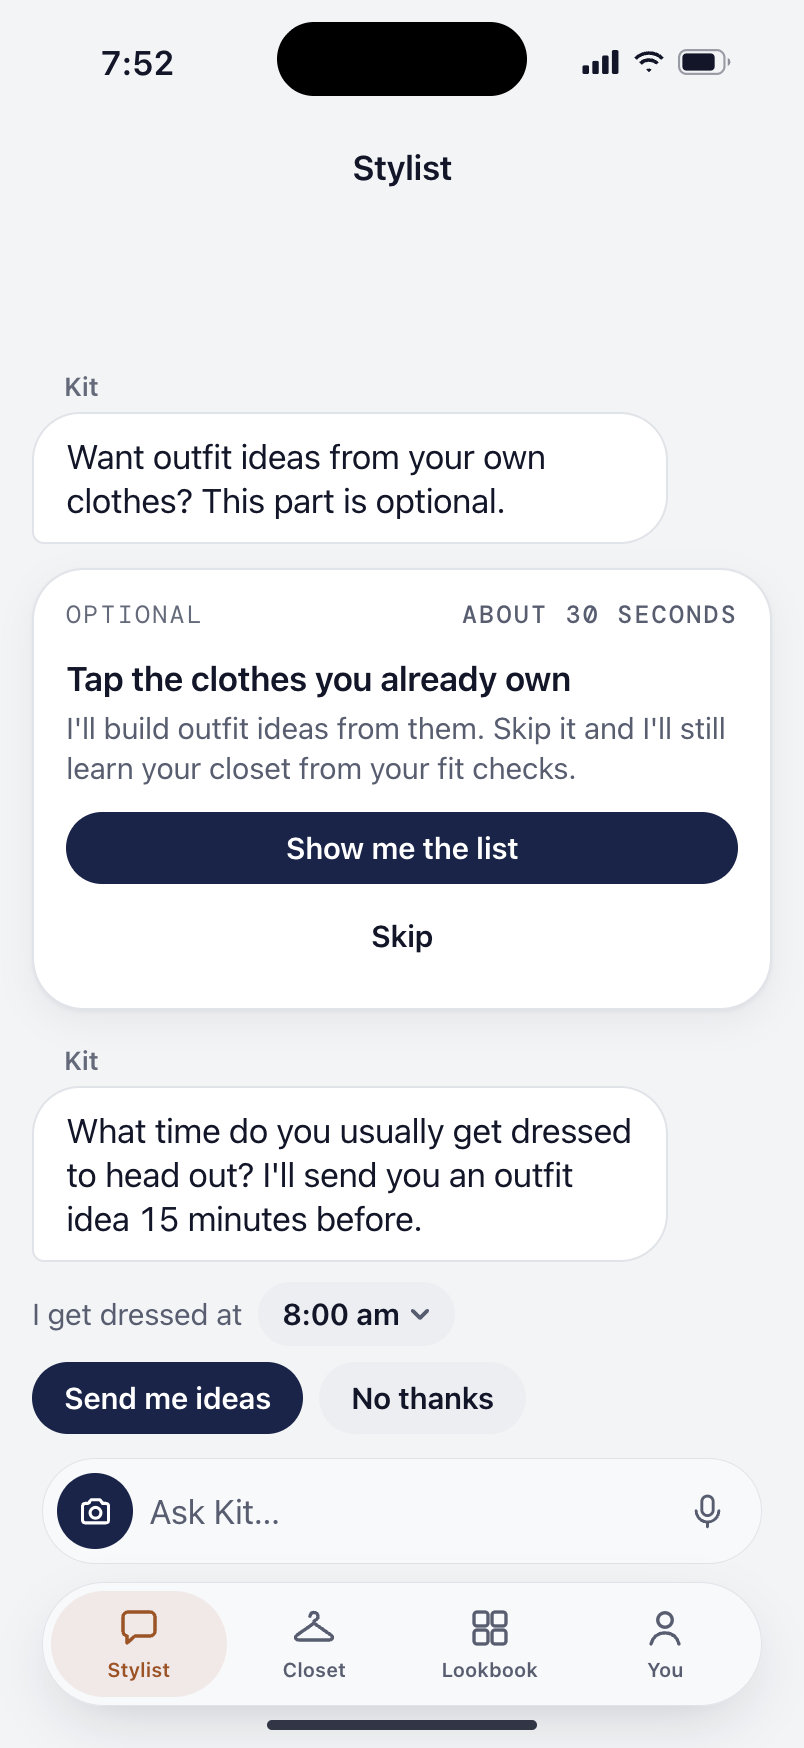
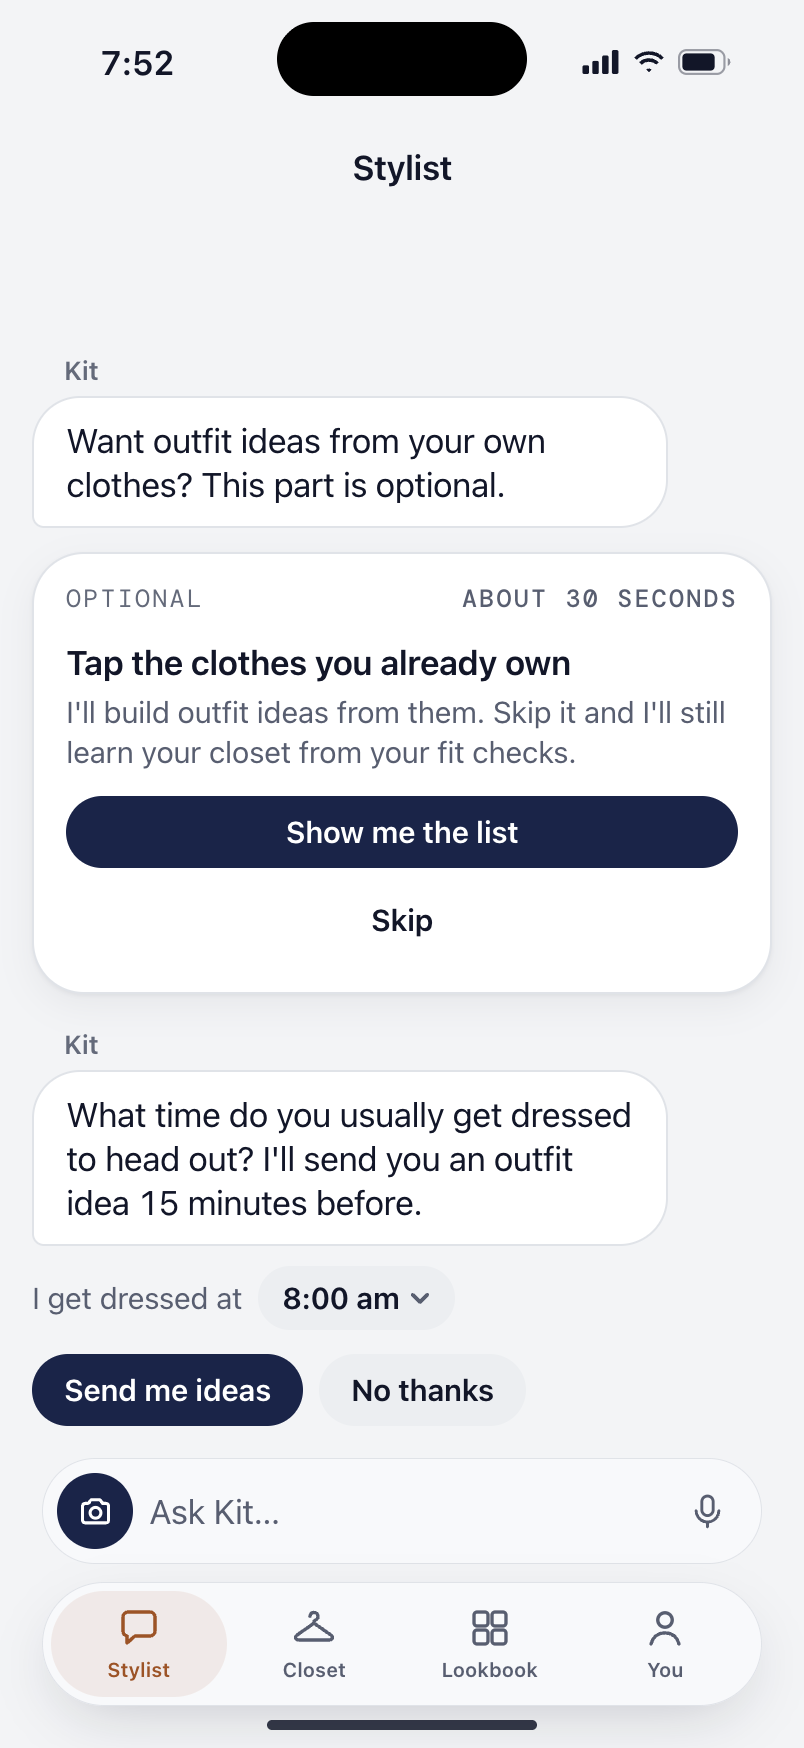
T53 design round 2: the never-asked switch state, button gaps, single dimming, AX full-width buttons; open questions 8-10

diff --git a/tasks/T53/design.html b/tasks/T53/design.html
@@ -347,7 +347,7 @@ h1.board-title em{font-style:normal;font-stretch:72%;font-weight:500;color:var(-
 .t53-pill{display:inline-flex;align-items:center;gap:5px;min-height:32px;padding:0 12px;border-radius:16px;background:var(--surface-2);font-size:15px;line-height:20px;font-weight:600;color:var(--ink)}
 .t53-pill .chev{width:11px;height:11px;color:var(--ink-2)}
 .t53-btns{display:flex;gap:8px;flex-wrap:wrap}
-.t53-btns .btn{flex:none}
+.t53-btns .btn{flex:none;margin:4px 0}
 .t53-spin{width:18px;height:18px;border-radius:50%;border:2.2px solid currentColor;border-right-color:transparent;opacity:.8}
 .t53-stamp{align-self:center;font-size:13px;line-height:18px;font-weight:500;color:var(--ink-3);flex:none}
 /* InviteCard (S14) above the ask on the first-fit day */
@@ -401,7 +401,7 @@ h1.board-title em{font-style:normal;font-stretch:72%;font-weight:500;color:var(-
 .t53-row .ti{flex:1;font-size:16px;line-height:21px;font-weight:600;color:var(--ink)}
 .t53-row .val{display:flex;align-items:center;gap:3px;font-size:15px;line-height:20px;font-weight:500;color:var(--ink-2)}
 .t53-row .val .chev{width:10px;height:10px;color:var(--ink-2)}
-.t53-dis{opacity:.4}
+.t53-dis .t53-row > *{opacity:.4}
 .t53-sw{width:64px;height:28px;border-radius:14px;background:rgba(120,120,128,.16);position:relative;flex:none}
 .t53-sw::after{content:"";position:absolute;top:2px;left:2px;width:37px;height:24px;border-radius:12px;background:#fff;box-shadow:0 2px 6px rgba(0,0,0,.18)}
 .t53-sw.on{background:var(--good)}
@@ -531,7 +531,7 @@ h1.board-title em{font-style:normal;font-stretch:72%;font-weight:500;color:var(-
               <div class="t53-kit">What time do you usually get dressed to head out? I'll send you an outfit idea 15 minutes before.</div>
               <div class="t53-foot">
                 <div class="t53-timerow"><span class="t53-label">I get dressed at</span><span class="t53-pill">8:00 am<svg class="chev"><use href="#t53-down"/></svg></span></div>
-                <div class="t53-btns"><span class="btn p" style="width:131px"><span class="t53-spin"></span></span><span class="btn" style="opacity:.4">No thanks</span></div>
+                <div class="t53-btns"><span class="btn p" style="width:135.5px"><span class="t53-spin"></span></span><span class="btn" style="opacity:.4">No thanks</span></div>
               </div>
             </div>
           </div>

diff --git a/tasks/T53/DESIGN.md b/tasks/T53/DESIGN.md
@@ -14,6 +14,7 @@ After his first scored fit, Kit asks in the chat what time he usually gets dress
 - **Apple's prompt** is iOS's own alert over whatever screen asked for it (Stylist, or You → Notifications).
 - **The nudge** is drawn by iOS (lock screen, Notification Center, banner). A tap opens the Stylist tab at today's card. That card is built by the morning lane (T55) and isn't redrawn here.
 - **You → Notifications** is a page pushed from the `Notifications` row on You (`app/(tabs)/you/notifications.tsx`; the row itself belongs to T34, `specs/setup-and-you.md` SY1). It has the native header "Notifications" and the system Back button (VoiceOver "You"). The tab bar stays, with You selected. He leaves with Back or a swipe from the left edge.
+- **What the switch shows** (all of phones 8–10): it shows on only when `notify.idea` is saved on **and** iOS allows notifications for Kitted. While Apple's prompt has never been shown (before Kit's ask, after `No thanks` on it, or after "Delete all my data"), it shows off and the time row is hidden, whatever the stored value: that's phone 9. The one exception is phone 10 (iOS has them off), where the greyed switch shows its saved value. *Change from today:* `prefs.ts` reads an unset `notify.idea` as on (`parseSwitch`, "Unset means on"), which would show phone 8 to someone who was never asked.
 
 ## States
 In the order he meets them. The must-not cases, where he sees nothing: **under the under-18 lock** no ask posts, no comeback posts, and nothing is scheduled (NT5.2); **after `No thanks`** Kit never posts the ask again (NT1.7); **after "Delete all my data"** everything scheduled is cancelled and the ask can come again after setup, like a new user (NT5.1). None of these has a frame. The data deletion screens aren't changed by this task.
@@ -21,16 +22,16 @@ In the order he meets them. The must-not cases, where he sees nothing: **under t
 Shared parts, used in several states (each state below names them):
 - **Kit's name** · `StylistMessage` header · "Kit" (`en.ts` `common.who`) · type `footnote` 600, color `ink3`, 16 pt in from the bubble's edge, 4 pt above the bubble · hidden from VoiceOver (the bubble says "Kit: …") · shown on the first Kit line after a card, a stamp or his message (`thread.ts` `showWho`, as built).
 - **Kit's bubble** · `StylistMessage` · type `body` (role `chatText`), color `ink` on `surface`, 1 pt `line` border, radius 24 with the bottom-left tail 6, padding 10 / 16, up to 86% wide (94% at accessibility sizes) · VoiceOver: "Kit: {the line}" (`en.ts` `a11y.stylistSays`) · tap: nothing.
-- **The footer** · `StylistMessage` `footer` · 6 pt above it, 8 pt between its rows (`space.s`).
+- **The footer** · `StylistMessage` `footer` · **10 pt** from the bubble to the footer's first row (`StylistMessage`'s own `gap: 4` plus the footer's `paddingTop: 6`), 8 pt between its rows (`space.s`; see Buttons for the visible gap).
 - **The time row** · a `View` row, wraps (`flexWrap`), 8 pt gap:
   - Label · `KText` `subheadline`, color `ink2` · "I get dressed at" (source: spec NT1 step 2) · **hidden from VoiceOver**, because the time says it.
   - Time · `MorphPicker` (capsule, today's default look) · "8:00 am" (his stored `profile.ideaTime`, or 8:00 am; the label comes from `ideaTimeLabel`) · capsule 32 tall, 12 pt side padding, radius 16, fill `surface2`, `subheadline` 600 `ink`, a `chevronDown` 11 in `ink2`, 5 pt gap; hit area 44 (6 pt `hitSlop` above and below) · VoiceOver: "I get dressed at, 8:00 am" (spec NT5.4; built as `settings.a11y.value` with label "I get dressed at"), button, collapsed / expanded · tap: opens the menu (phone 2).
 - **The time menu** · the `MorphPicker` panel · 17 options, "5:00 am", "5:30 am" … "12:30 pm", "1:00 pm" (spec: half hours, 5:00 am to 1:00 pm; `IDEA_TIMES`), plus his stored time if it's off the list (`ideaTimeOptions`, as built) · each row 44 tall, `body`, `ink2`; the current one `body` 600 `ink` with a `check` · VoiceOver per row: the time, button, selected for the current one; the panel is modal (`accessibilityViewIsModal`).
-- **Buttons** · `KButton` size `regular` (36 visual, 44 hit, 16 pt side padding, `subheadline` 600), in a row that wraps, 8 pt gap. Primary: `primary` fill, `onPrimary` text. Secondary: `surface2` fill, `ink` text. At most one primary per card.
+- **Buttons** · `KButton` size `regular` (36 visual, 44 hit, 16 pt side padding, `subheadline` 600), in a row that wraps, 8 pt gap. Each `Pressable` is 44 tall around its 36 pt capsule (4 pt above and below), so the **visible** gaps are 8 pt side by side, **12 pt** from the time row to the buttons, and **16 pt** between wrapped rows (phone 11). Primary: `primary` fill, `onPrimary` text. Secondary: `surface2` fill, `ink` text. At most one primary per card. At accessibility sizes each button is `fullWidth` and they stack (phone 15).
 
 ### Kit's ask · when: once ever, right after his first scored fit, at the end of the setup sequence (in the beta right after the optional closet card) · phone 1 · `design/01-light.png`, `design/01-dark.png`
 Top to bottom, in VoiceOver's reading order (the thread above is as built: his fit check's card, Kit's "Want outfit ideas from your own clothes? This part is optional." (`plan.intro`) and the closet card (`InviteCard`: "Optional", "About 30 seconds", "Tap the clothes you already own", "I'll build outfit ideas from them. Skip it and I'll still learn your closet from your fit checks.", "Show me the list", "Skip"), all unchanged):
-- Kit's name · "Kit" (as above). 12 pt under the closet card (`RHYTHM.stylistCards`).
+- Kit's name · "Kit" (as above). **16 pt** under the closet card (`RHYTHM.stylistCards` 12, plus `StylistMessage`'s `marginTop: 4` when the name shows).
 - Kit's bubble · "What time do you usually get dressed to head out? I'll send you an outfit idea 15 minutes before." (source: spec NT1 step 1) · VoiceOver: "Kit: What time do you usually get dressed to head out? I'll send you an outfit idea 15 minutes before."
 - The time row · label "I get dressed at" + the time "8:00 am" (as above).
 - Send me ideas · `KButton` primary regular · "Send me ideas" (source: spec NT1 step 3) · VoiceOver: "Send me ideas", button · tap: shows Apple's prompt (phone 3). This and You → Notifications' switch are the only two places it's asked.
@@ -41,7 +42,7 @@ Top to bottom, in VoiceOver's reading order (the thread above is as built: his f
 - **Change from today:** the question, the label and the button words change; the time row moves up front and the old two-step card (`Yes, pick a time`, then `Set {time}`, `NotifyCardState` `picking`) goes. The label changes from "Daily idea at" and the menu's VoiceOver from "Daily outfit idea time, {time}".
 
 ### Kit's ask · picking a time · when: he taps the time · phone 2 · `design/02-light.png`, `design/02-dark.png`
-- The time menu (as above) grows out of the pill in place. There's no room under the pill at the end of the thread, so it grows upward to the top of the safe area plus 16 pt and is as tall as the screen allows (to 16 pt above the home-indicator area). It's 220 wide (`MIN_W`), starting at the pill's left edge. Its top row is the pill again ("8:00 am" with a `chevron.up`), then a 1 pt `line` rule, then the times. 16 rows show; "1:00 pm" scrolls into view.
+- The time menu (as above) grows out of the pill in place. There's no room under the pill at the end of the thread, so it grows upward to the top of the safe area plus 16 pt and is as tall as the screen allows (to 16 pt above the home-indicator area). It's 220 wide (`MIN_W`), starting at the pill's left edge. Its top row is the pill again ("8:00 am" with a `chevron.up`), then a 1 pt `line` rule, then the times. 16 rows show; "1:00 pm" scrolls into view. Its top edge (safe-area top + 16) lands on the "Stylist" title, so a sliver of the title's glyph tops shows above the panel: that's the as-built geometry, kept.
 - A scrim covers the rest: `rgba(18,22,40,0.06)` in light, `rgba(0,0,0,0.25)` in dark (as built). The pill under the panel is hidden while it's open.
 - tap a time: the menu shrinks back into the pill, which shows the new time. Nothing is saved or scheduled yet: the card keeps the pick (`payload.time`, as built) until Send me ideas. Tap outside, or the top row: it closes with no change.
 - **Motion and haptics:** the existing morph, 260 ms open (ease out) and 190 ms close (ease in); with Reduce Motion it opens and closes at once. No haptic.
@@ -93,7 +94,7 @@ Top to bottom, in VoiceOver's reading order:
 - Header · `Section` `header` · "One outfit idea a day, 15 minutes before you get dressed. That's all I send." (source: spec NT3) · `subheadline` `ink2`, 4 pt side inset, 4 pt under it · VoiceOver: read as text.
 - Rows · `Section` card (`KCard` radius 20 (`radius.cardSmall`), `surface`, 1 pt `line`, the card shadow in light), 1 pt `RowDivider` inset 16 between rows. Page side gutter 16, 12 pt top padding (`SettingsScroll`).
   - Daily outfit idea · `ToggleRow` · "Daily outfit idea" (source: spec; `en.ts` `notifs.idea`) · title `callout` 600 `ink`, row min 44, padding 12 / 16 · the system `Switch`, track `good` when on · VoiceOver: "Daily outfit idea", switch button, on · tap: off → phone 9 (cancels everything scheduled).
-  - I get dressed at · `PickerRow` · "I get dressed at" (source: spec NT3) · title `callout` 600 `ink` (hidden from VoiceOver), value `MorphPicker` inline: "8:00 am" in `subheadline` 500 `ink2` with a `chevronDown` 10 `ink2` · VoiceOver: "I get dressed at, 8:00 am", button · tap: opens phone 2's menu (the inline panel, `surface`); a pick saves the time and reschedules all 7 at once.
+  - I get dressed at · `PickerRow` · "I get dressed at" (source: spec NT3) · title `callout` 600 `ink` (hidden from VoiceOver), value `MorphPicker` inline: "8:00 am" in `subheadline` 500 `ink2` with a `chevronDown` 10 `ink2` · VoiceOver: "I get dressed at, 8:00 am", button · tap: opens the time menu as `PickerRow`'s inline `MorphPicker` does in Settings → Appearance (a `surface` panel that grows down from the value, the same 17 times; not drawn); a pick saves the time and reschedules all 7 at once.
 - No `Fit check ready` row, no `Trial ending` row.
 - **Motion and haptics:** the switch's own. The time row appears and hides with no animation (as built).
 - **Dark:** token swap; the card loses its shadow and keeps its border.
@@ -102,7 +103,8 @@ Top to bottom, in VoiceOver's reading order:
 
 ### You → Notifications · off · when: after No thanks, or he switched it off · phone 9 · `design/09-light.png`, `design/09-dark.png`
 - Back, title, header: as phone 8.
-- Daily outfit idea · `ToggleRow`, off · VoiceOver: "Daily outfit idea", switch button, off · tap: on. If Apple's prompt was never shown, it shows now (phone 3's alert over this page): Allow → switch on, the time row shows, all 7 scheduled; Don't Allow → the switch goes back off and the page becomes phone 10. If iOS already allows: on, and all 7 are scheduled.
+- Daily outfit idea · `ToggleRow`, off · VoiceOver: "Daily outfit idea", switch button, off · tap: on. If Apple's prompt was never shown, it shows now (phone 3's alert over this page). While the alert is up, the switch flips on at once (feedback within 0.1 s) and is disabled until the answer comes back, as No thanks is on phone 3. Allow → it stays on, the time row shows, all 7 are scheduled (phone 8). Don't Allow → it goes back off and the page becomes phone 10. If iOS already allows: on, and all 7 are scheduled.
+- **The same picture before he was ever asked** (before Kit's ask, after `No thanks` on it, or after "Delete all my data"): the switch off and no time row, whatever is stored (see "What the switch shows" in Where it lives).
 - The time row is hidden while the switch is off (as built). His time is kept.
 
 ### You → Notifications · off in iOS · when: iOS has notifications off for Kitted (he tapped Don't Allow, or turned them off in iOS Settings) · phone 10 · `design/10-light.png`, `design/10-dark.png`
@@ -112,7 +114,7 @@ Top to bottom, in VoiceOver's reading order:
   - "Notifications are off for Kitted." (source: spec NT3; `en.ts` `notifs.off`) · `callout` `ink` · VoiceOver: read as text.
   - Open Settings · `KButton` secondary regular, left-aligned · "Open Settings" (`en.ts` `common.openSettings`) · VoiceOver: "Open Settings", button · tap: Kitted's page in iOS Settings (`Linking.openSettings()`).
 - Header: as phone 8.
-- Rows · the same card, **greyed out**: the whole card at `opacity.disabled` (0.4); the switch is disabled and shows its saved value, the time row (shown if the switch is saved on) can't be tapped · VoiceOver: "Daily outfit idea", switch button, on, dimmed; "I get dressed at, 8:00 am", button, dimmed.
+- Rows · the same card, **greyed out**: each row dims itself to `opacity.disabled` (0.4): `ToggleRow` `disabled` as built, and the new `PickerRow` `disabled`. The card, its border and the divider stay at full opacity (one 0.4, never stacked). The switch is disabled and shows its saved value, the time row (shown if the switch is saved on) can't be tapped · VoiceOver: "Daily outfit idea", switch button, on, dimmed; "I get dressed at, 8:00 am", button, dimmed.
 - Nothing is scheduled. Coming back to the app with iOS allowing clears the card, un-greys the rows and schedules (the page re-reads the permission when the app returns to the foreground).
 - **Dark:** token swap.
 - **Largest text:** phone 16.
@@ -151,6 +153,7 @@ Top to bottom, in VoiceOver's reading order:
 - The label at `subheadline` AX5 (49 / 59) on its own line; the time capsule under it (the row wraps), 49 pt, padding 6 / 12.
 - Buttons stack full width (03 §5 KButton: side-by-side buttons stack at AX sizes), text capped at 2x (30 pt, `CONTROL_TEXT_MAX_SCALE`), up to two lines and then shrinking to fit (as built).
 - The header ("Stylist") and the "Ask Kit…" bar are capped at 2x, as today.
+- *Change from today:* `NotifyAskCard`'s button row wraps (`flexDirection: 'row', flexWrap: 'wrap'`) and KButton regular sizes to its words, so at AX sizes the buttons wrap at their own width. Stacked full width needs `fullWidth={isAccessibilitySize}` on each button (the pattern in `MorningCard.tsx` and `OutfitIdeaCard.tsx`), for the ask and for the comeback.
 
 ### Largest text · You → Notifications (phone 10 at AX5) · phone 16 · `design/16-light.png`, `design/16-dark.png`
 - Scrolled to the end. The off card's line wraps at `callout` AX5 (51 / 61) and Open Settings stretches full width (scrolled off above in the frame).
@@ -206,6 +209,10 @@ Nothing else: the ask and the comeback are `StylistMessage` with a footer, the t
 6. **An ignored comeback card on a later day.** The thread starts fresh each day, so an unanswered card moves to Past chats, where cards are read-only. · recommended: **it isn't posted again (once per lapse); Past chats shows only its question, like the ask**; You → Notifications resumes. · other: post it again on each open until he answers.
 7. **If scheduling fails on the phone** (rare), the spec has no state. · recommended: **no message**; the next open, foreground or background tries again, since every one of those replaces the schedule. · other: a toast.
 
+8. **An unanswered ask card, and he switches notifications on in You → Notifications first** (the spec covers this only for the comeback card). · recommended: **the ask card turns into its done line** ("Done. Your first idea lands…"), so a later tap on its No thanks can't turn off what he just turned on. · other: leave it answerable.
+9. **Change the time on the comeback (phone 12): open the menu at once?** · recommended: **no**: the time row appears and he taps the time, the same two-step reading as the ask, and VoiceOver focus lands on the time. Note that here a pick commits at once while on phone 1 it waits for Send me ideas (the spec's rule), although the two rows look the same. · other: open the menu straight away, which saves a tap.
+10. **On You → Notifications only the value ("8:00 am ⌄") is tappable, not the whole row** (as built, like Appearance). · recommended: **keep it as built** for this task; making whole rows the target would be a Settings-wide change. · other: make the whole row tap open the menu, like iOS Settings rows.
+
 ## Out of scope
 - The Later version of the ask (its words, `Send me nudges`, under onboarding's `No rush.` line) and the first-check reminder: T57 (NT1.8–NT1.10).
 - Today's card that a nudge opens: the morning lane (T55), unchanged here.
@@ -241,3 +248,4 @@ Read: CLAUDE.md, `specs/notifications.md`, `specs.md` F13 and first-run step 9, 
 3. `PickerRow`: only the value "8:00 am ⌄" is tappable, not the whole row. This is as built (Appearance works the same way). Making the whole row the target would match iOS Settings rows.
 
 ## Changes
+- **Round 2** · from the critic (round 1) · blocker: added "What the switch shows" (on only when saved on and iOS allows; off with no time row while Apple's prompt has never been shown, which looks like phone 9) and the matching line on phone 9. Polish: the button gaps written as 12 pt (time row to buttons) and 16 pt (wrapped rows), and the frames redrawn with 44 pt button boxes (phones 1, 2, 3, 6, 11, 12, 15); the footer's spacing corrected to 10 pt and Kit's name to 16 pt under the card; phone 3's spinner button at Send me ideas' real width (135.5 pt); phone 10 dims each row once and keeps the card at full opacity (frames 10 and 16 redrawn); phone 2's sliver of title noted as as-built; phone 15's `fullWidth` at AX sizes named as a change from today, for the ask and the comeback; the settings page's menu described (as in Settings → Appearance); phone 9's switch while Apple's prompt is up. Open questions 8–10 added from the critic's suggestions. PNGs re-shot: 01, 02, 03, 06, 10, 11, 12, 15, 16, light and dark.
